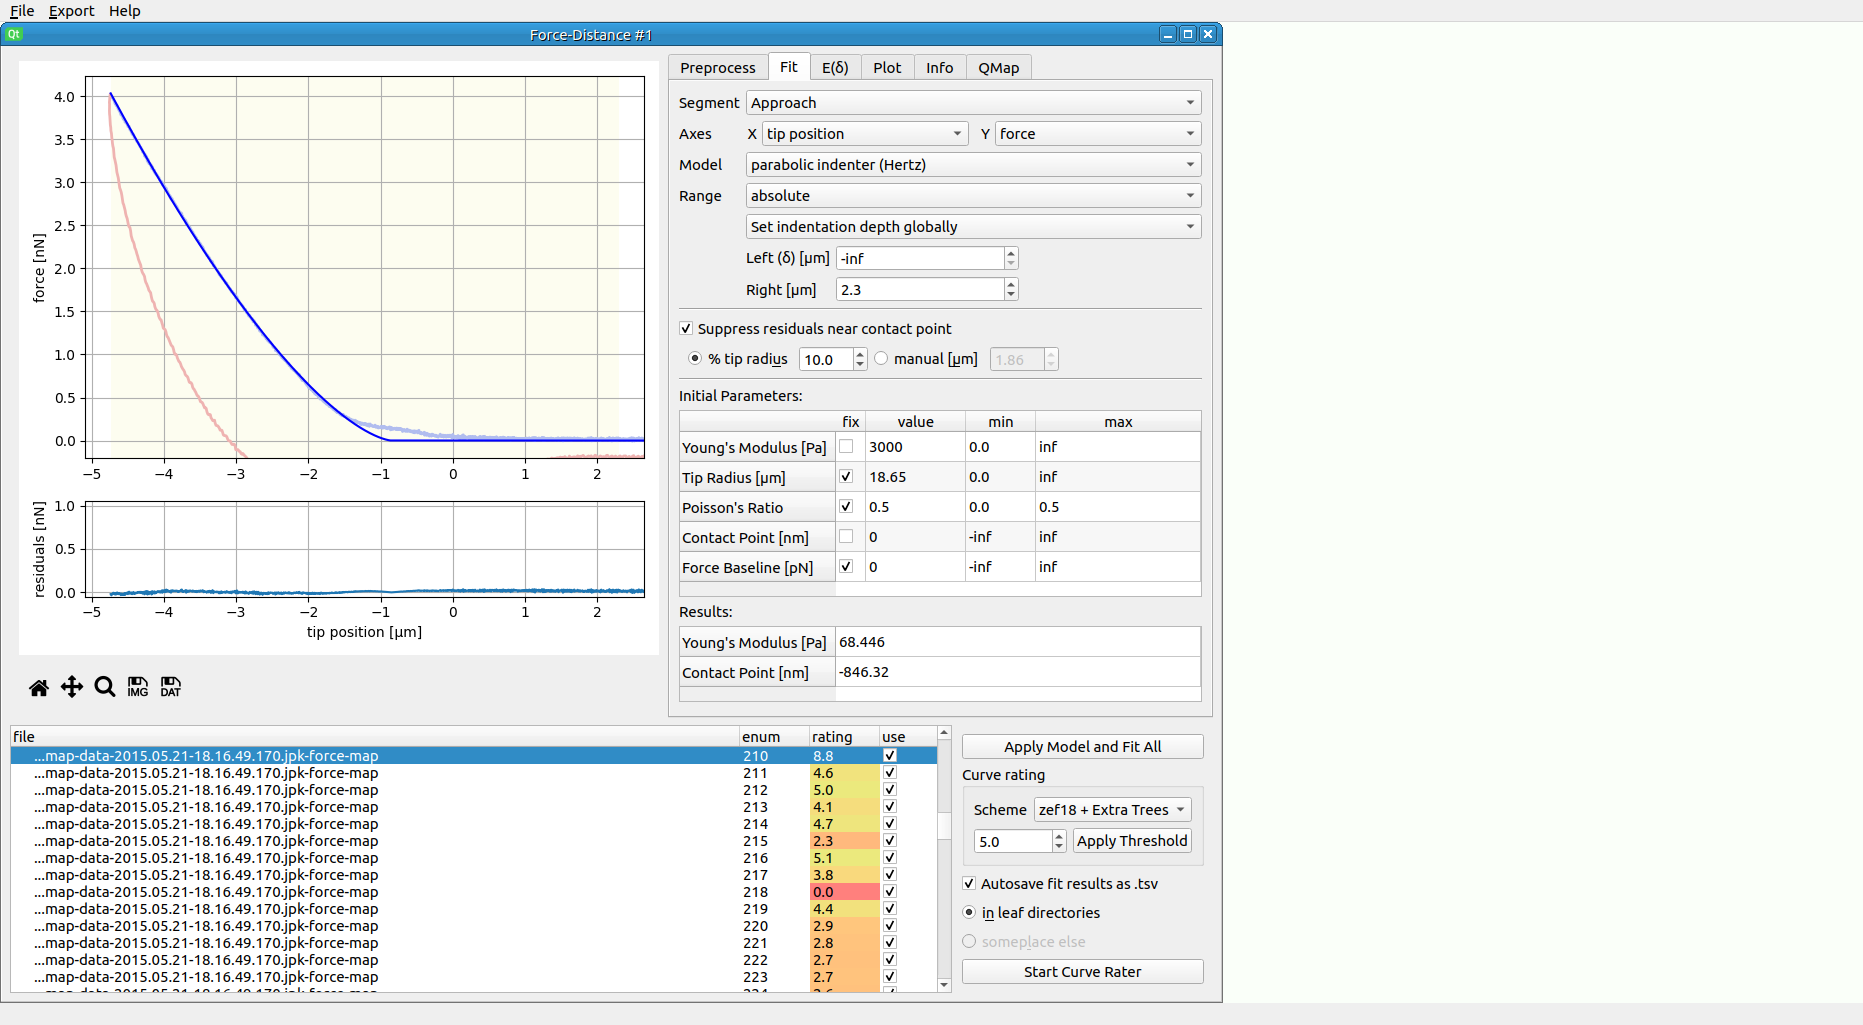
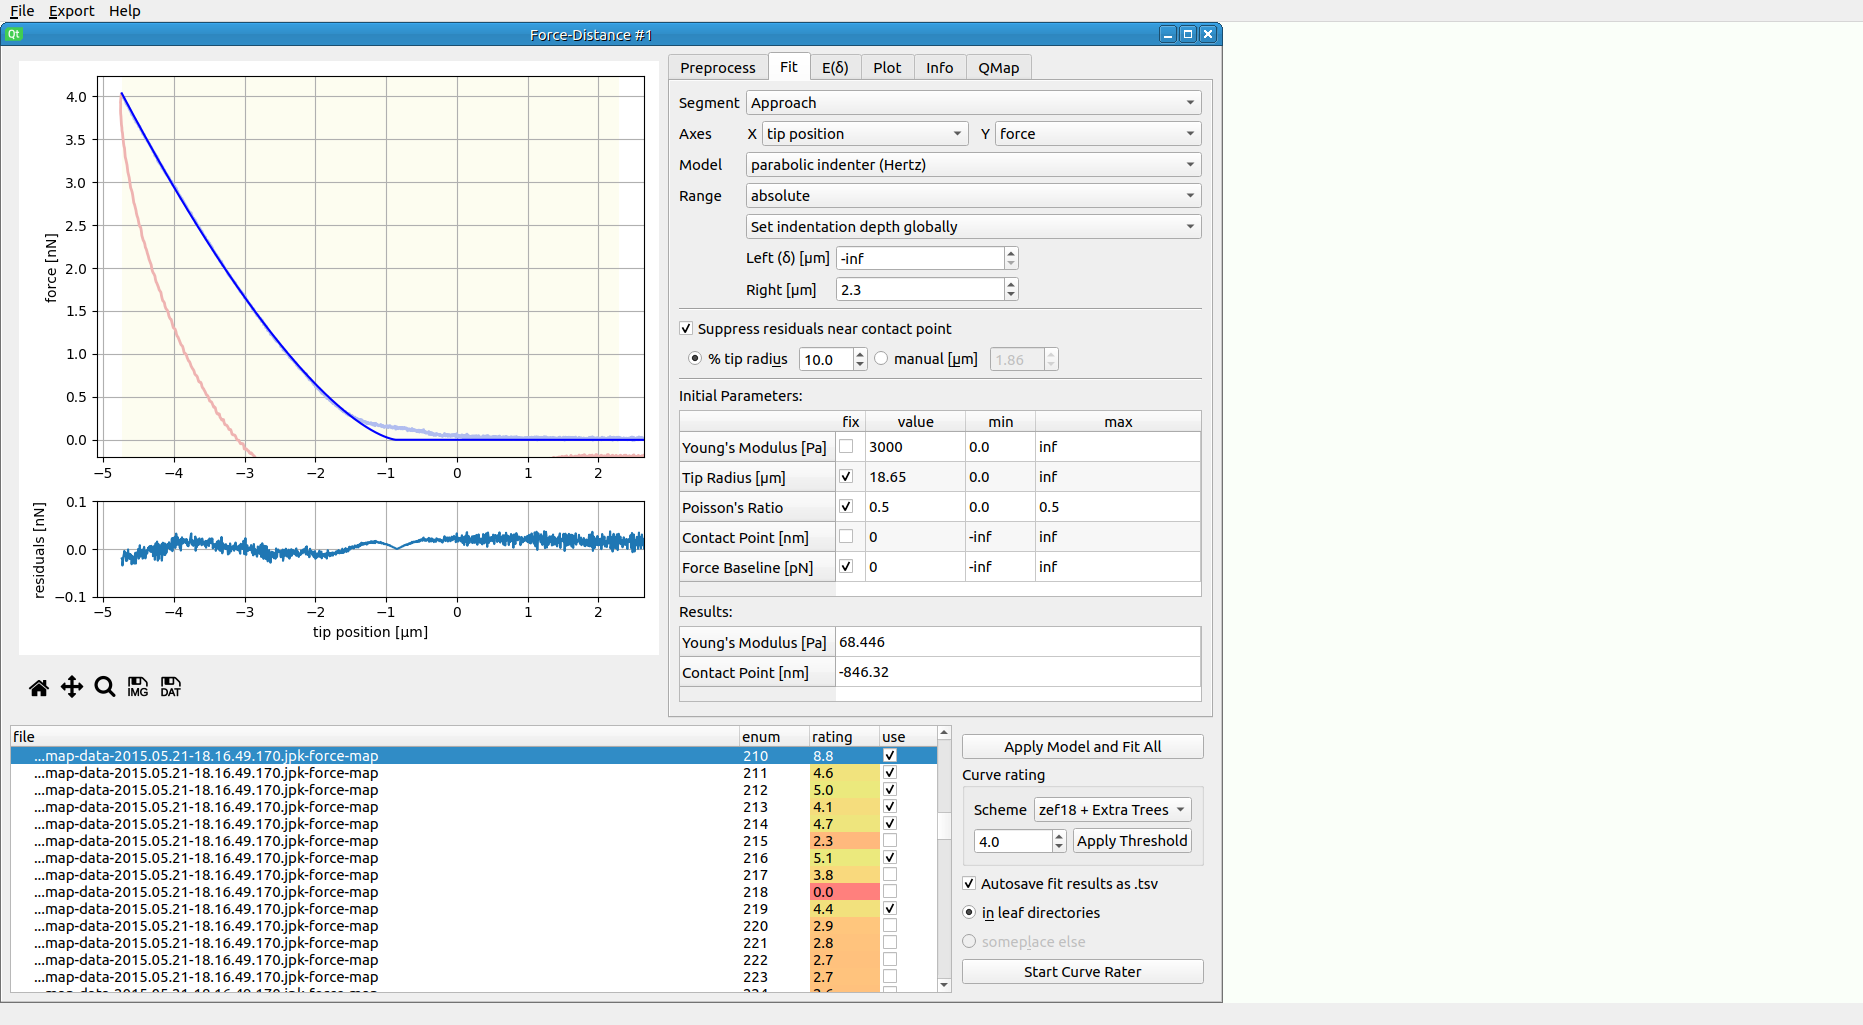
fix: set correct display range for residuals

diff --git a/pyjibe/fd/mpl_indent.py b/pyjibe/fd/mpl_indent.py
@@ -145,11 +145,11 @@ class MPLIndentation(object):
             # y: main plot
             self.axis_main.set_ylim(ymin, ymax)
         # set residuals ylim automatically
-        rmin = np.min(self.plots["residuals"].get_data()[1])
-        rmax = np.max(self.plots["residuals"].get_data()[1])
+        rmin = np.nanmin(self.plots["residuals"].get_data()[1])
+        rmax = np.nanmax(self.plots["residuals"].get_data()[1])
         if not np.isnan(rmin + rmax):
             rmax = max(abs(rmin), abs(rmax))
-            rmax = np.ceil(rmax*2) / 2
+            rmax = np.ceil(rmax*10) / 10
             rmin = -rmax
             # y: main plot
             self.axis_res.set_ylim(rmin, rmax)
